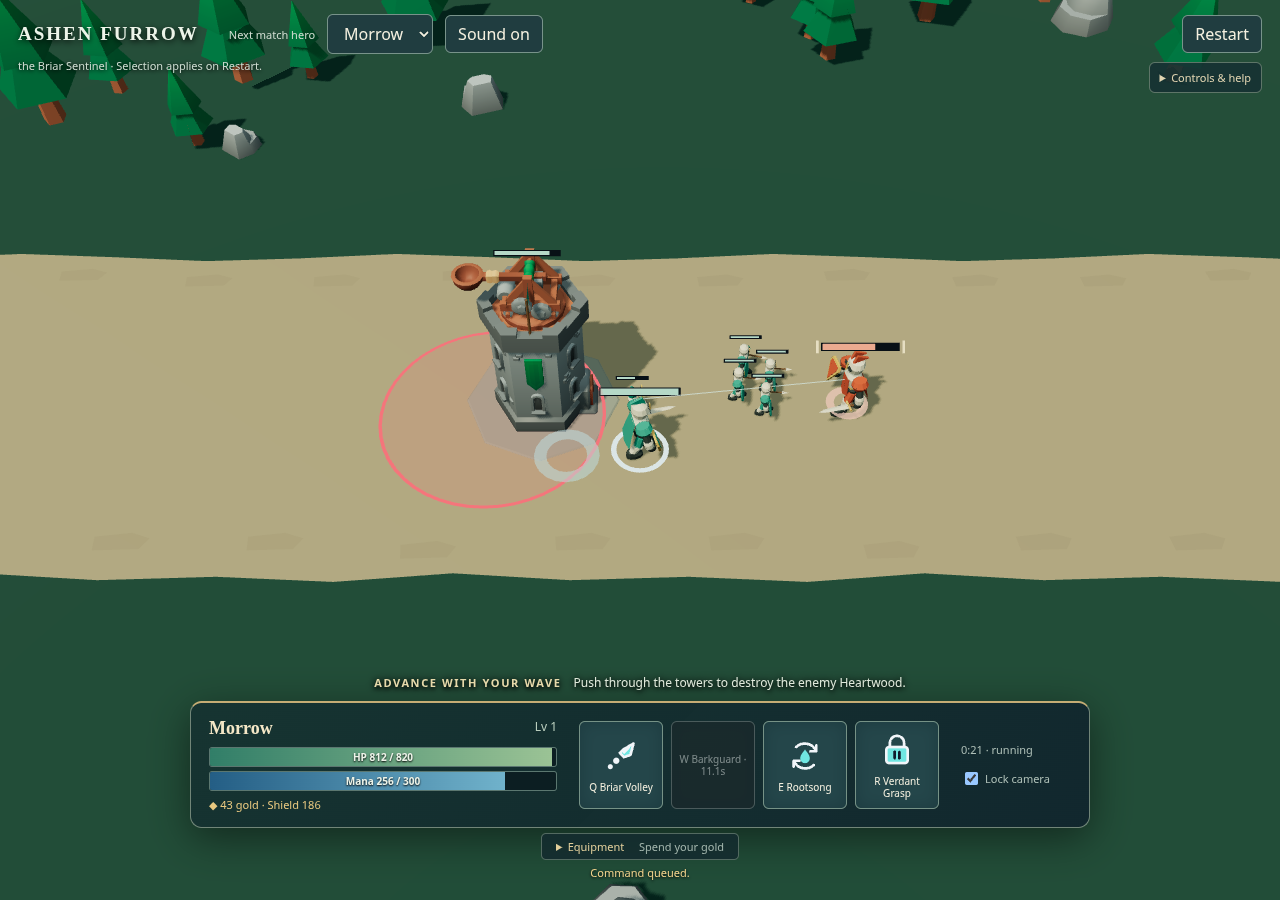
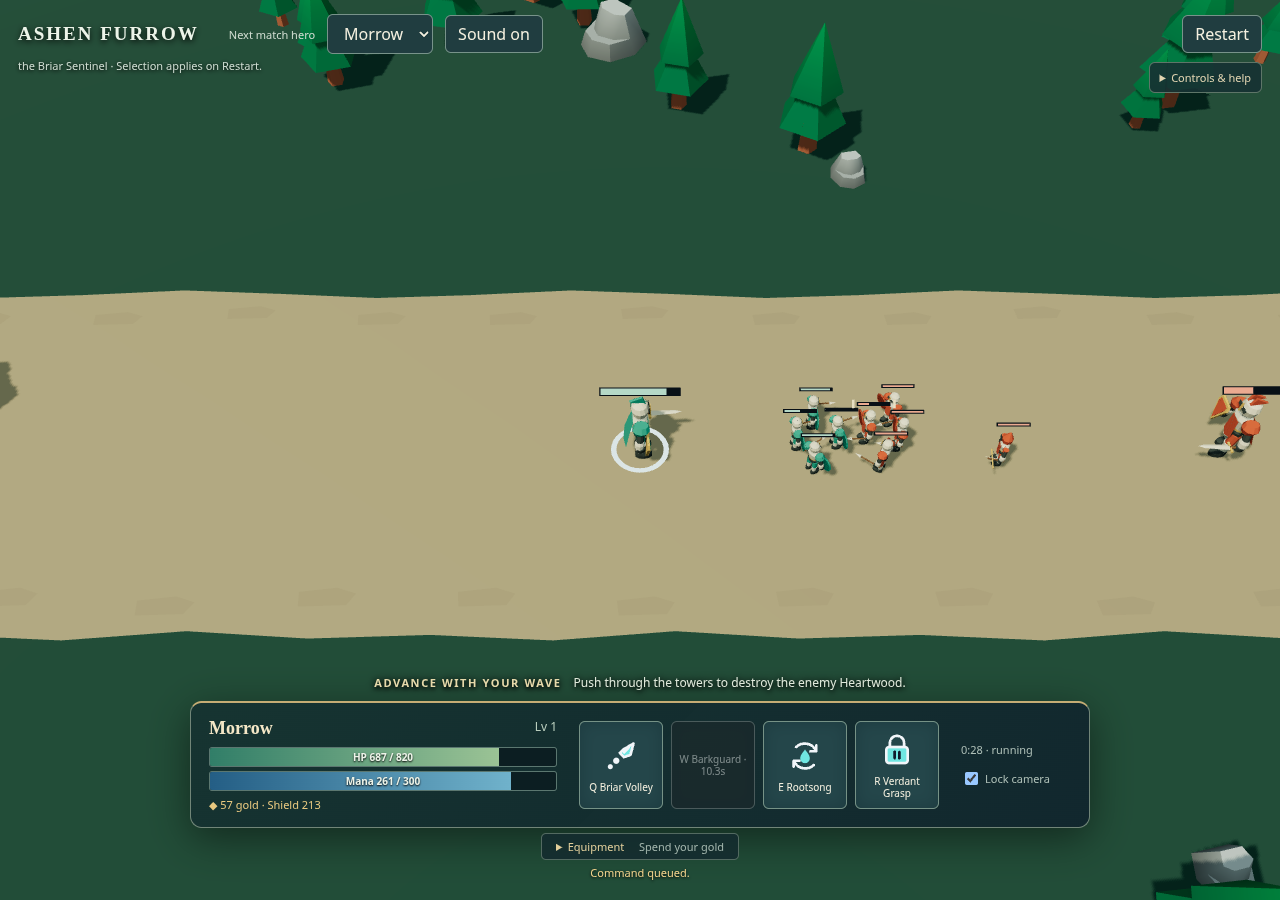
Add direct enemy attack controls; crowded target and hit feedback remain weak

diff --git a/index.html b/index.html
@@ -1,4 +1,4 @@
 <!doctype html><html lang="en"><head><meta charset="UTF-8"><meta name="viewport" content="width=device-width,initial-scale=1"><title>Ashen Furrow · MOBA-Like</title><link rel="icon" href="data:,">
 <style>
 :root{color-scheme:dark;font-family:Inter,system-ui,sans-serif;color:#edf4e9;background:#152c2e}*{box-sizing:border-box}body{margin:0;overflow:hidden}button,select{font:inherit}button,select,summary{cursor:pointer}button:focus-visible,select:focus-visible,summary:focus-visible{outline:2px solid #f0d191;outline-offset:3px}button,select{background:#203d40;color:#f4f0df;border:1px solid #78938a;border-radius:6px;padding:7px 12px}button:hover:not(:disabled){background:#36554b;border-color:#e6ca8b}button:disabled{cursor:default;opacity:.48}header{position:absolute;z-index:10;top:14px;left:18px;right:18px;display:flex;align-items:center;gap:12px;pointer-events:none}header>*{pointer-events:auto}h1{font:700 19px Georgia,serif;letter-spacing:2px;margin:0 18px 0 0;text-shadow:0 2px 6px #000}header label{font-size:11px;color:#cfdbcf}#restart{margin-left:auto}#hero-choice-details{position:absolute;z-index:9;top:58px;left:18px;max-width:340px;font-size:11px;line-height:1.5;color:#cedcd1;text-shadow:0 1px 4px #000;pointer-events:none}#stage{position:absolute;inset:0;width:100vw;height:100vh;min-height:320px}canvas{display:block;width:100%;height:100%;outline:none}#notice{position:absolute;z-index:20;left:50%;top:30%;transform:translateX(-50%);width:min(540px,90vw);padding:24px;background:#10272df0;border:1px solid #c28b59;border-radius:10px;color:#ffcf9d;box-shadow:0 20px 80px #0008}#notice[hidden]{display:none}#hud{position:absolute;z-index:10;bottom:18px;left:50%;transform:translateX(-50%);width:min(900px,94vw);pointer-events:none}.battle-status{display:flex;align-items:baseline;gap:12px;justify-content:center;margin-bottom:10px;text-shadow:0 2px 5px #000,0 0 8px #000;font-size:12px}.battle-status strong{font-size:11px;letter-spacing:1.6px;color:#e6d9aa}.battle-status span{color:#e0e9db}.battle-status[data-tone=danger] strong{color:#ffad78}.combat-panel{display:flex;align-items:center;justify-content:space-between;gap:22px;padding:15px 18px;background:linear-gradient(135deg,#163331f5,#10252df2);border:1px solid #728578;border-top:2px solid #c6ad74;border-radius:12px;box-shadow:0 10px 40px #0007;pointer-events:auto}.hero-panel{min-width:220px;flex:1}.hero-heading{display:flex;justify-content:space-between;margin-bottom:8px}.hero-heading strong{font:700 18px Georgia,serif;color:#f4e7c6}.hero-heading span{font-size:12px;color:#b9cdbd}.resource{height:20px;margin-top:4px;border:1px solid #5b7770;border-radius:3px;background:#0c1e22;position:relative;overflow:hidden}.resource i{position:absolute;inset:0 auto 0 0;background:linear-gradient(90deg,#317e68,#9bc395);transition:width .12s}.resource.mana i{background:linear-gradient(90deg,#245e85,#70b2cb)}.resource span{position:relative;z-index:1;display:block;text-align:center;font-size:10px;font-weight:700;line-height:18px;text-shadow:0 1px 2px #000}.gold{display:block;margin-top:6px;font-size:11px;color:#e8c87f}.skills{display:flex;gap:8px}.skills button{width:84px;height:88px;padding:6px;display:flex;flex-direction:column;align-items:center;justify-content:center;gap:6px;background:#24464a;border-color:#769286;box-shadow:inset 0 0 15px #081b2344}.skills button img{width:38px;height:38px}.skills button span{font-size:10px;line-height:1.2;text-align:center}.skills button[data-cooling=true]{background:#112a30;filter:saturate(.3)}.match{min-width:110px;display:flex;flex-direction:column;gap:12px;font-size:11px;color:#aebfb7}.match label{display:flex;align-items:center;gap:4px}.shop-panel{pointer-events:auto;width:max-content;max-width:100%;margin:5px auto 0;border-radius:5px;background:#142c2ee8;border:1px solid #536a61;font-size:11px}.shop-panel summary{padding:5px 14px;color:#e1ce9a}.shop-panel summary span{color:#a2b5ac;margin-left:12px}.shop{display:flex;gap:7px;padding:9px;flex-wrap:wrap}.shop button{font-size:11px}[data-message]{height:17px;margin-top:5px;text-align:center;color:#f2d48d;font-size:11px;text-shadow:0 1px 3px #000}footer{position:absolute;z-index:11;right:18px;top:62px;color:#bac9be;font-size:11px;max-width:280px}footer details{background:#163233e8;border:1px solid #5e7568;border-radius:6px;padding:7px 10px}footer summary{color:#e0d4b1}footer p{line-height:1.7;margin:8px 0 0}@media(max-width:750px){header{gap:6px;left:10px;right:10px}header h1{font-size:14px;margin-right:3px}header label{display:none}header button,header select{font-size:11px;padding:6px}#hero-choice-details{max-width:210px;font-size:9px}.combat-panel{gap:10px;padding:10px}.hero-panel{min-width:140px}.skills{gap:4px}.skills button{width:52px;height:76px}.skills button img{width:30px;height:30px}.match{display:none}.battle-status{display:block;text-align:center}.battle-status span{display:block;font-size:10px}footer{max-width:180px}.hero-heading strong{font-size:15px}}
-</style></head><body><header><h1>ASHEN FURROW</h1><label for="hero-select">Next match hero</label><select id="hero-select" aria-describedby="hero-choice-details" disabled></select><button id="sound-toggle" type="button" aria-pressed="true">Sound on</button><button id="restart" disabled>Restart</button></header><div id="hero-choice-details" role="status"></div><div id="notice" role="alert">Loading simulation and 3D assets…</div><main id="stage"></main><section id="hud"></section><footer><details><summary>Controls &amp; help</summary><p>Right-click: move · Q/W/E/R then left-click: aim/cast · A then left-click: attack-move · S: stop · Esc: cancel aim · Space: lock camera. Unlock camera to scroll at edges. Choose your next-match hero above, then Restart to begin a fresh match.</p></details></footer><script type="module" src="/src/client.ts"></script></body></html>
+</style></head><body><header><h1>ASHEN FURROW</h1><label for="hero-select">Next match hero</label><select id="hero-select" aria-describedby="hero-choice-details" disabled></select><button id="sound-toggle" type="button" aria-pressed="true">Sound on</button><button id="restart" disabled>Restart</button></header><div id="hero-choice-details" role="status"></div><div id="notice" role="alert">Loading simulation and 3D assets…</div><main id="stage"></main><section id="hud"></section><footer><details><summary>Controls &amp; help</summary><p>Right-click enemy: chase/attack · Right-click ground: move · Q/W/E/R then left-click: aim/cast · A then left-click: attack-move · S: stop · Esc: cancel aim · Space: lock camera. Unlock camera to scroll at edges. Choose your next-match hero above, then Restart to begin a fresh match.</p></details></footer><script type="module" src="/src/client.ts"></script></body></html>

diff --git a/tests/client/direct-attack.test.ts b/tests/client/direct-attack.test.ts
@@ -1,0 +1,30 @@
+import {describe,it,expect,vi} from 'vitest';
+import {Simulation} from '../../src/sim/simulation.js';
+import {commandForRightClick} from '../../src/input/commands.js';
+import {createControls} from '../../src/input/controls.js';
+import type {GameWorld} from '../../src/render/world.js';
+const navigation={closestPoint:(p:{x:number;z:number})=>({...p}),findPath:(a:{x:number;z:number},b:{x:number;z:number})=>({success:true,points:[a,b],reason:null})};
+function fixture(){const sim=new Simulation({seed:1,contentVersion:10,navigation,heroesPerTeam:1});const snapshot=sim.snapshot(),hero=snapshot.heroes[0]!,enemy=snapshot.heroes[1]!;return{sim,snapshot,hero,enemy};}
+describe('contextual enemy right click',()=>{
+ it('names the picked enemy rather than auto-selecting a nearer one, and ground/ally remains copied Move',()=>{
+  const {snapshot,hero,enemy}=fixture(),point={x:0,z:0};expect(commandForRightClick(hero,{point,entityId:enemy.id},snapshot)).toEqual({type:'attack',heroId:hero.id,targetId:enemy.id});
+  for(const entityId of [null,hero.id]){const result=commandForRightClick(hero,{point,entityId},snapshot);expect(result).toEqual({type:'move',heroId:hero.id,point});if(result?.type==='move')expect(result.point).not.toBe(point);}
+ });
+ it('stale, dead and protected enemies do not silently turn into movement; dead player/terminal also reject',()=>{
+  const {snapshot,hero,enemy}=fixture(),aim={point:{x:0,z:0},entityId:enemy.id};
+  for(const update of [{alive:false},{invulnerable:true}])expect(commandForRightClick(hero,aim,{...snapshot,entities:snapshot.entities.map(e=>e.id===enemy.id?{...e,...update}:e)})).toBeNull();
+  expect(commandForRightClick(hero,{...aim,entityId:999999},snapshot)).toBeNull();expect(commandForRightClick({...hero,alive:false},aim,snapshot)).toBeNull();expect(commandForRightClick(hero,aim,{...snapshot,status:'timeout'})).toBeNull();
+ });
+ it('the existing real command chases then commits; ground cancels target without changing the rules',()=>{
+  const {sim,hero,enemy}=fixture();const snap=sim.snapshot();const command=commandForRightClick(hero,{point:null,entityId:enemy.id},snap)!;
+  expect(sim.step([command])[0]?.accepted).toBe(true);expect(sim.snapshot().heroes[0]!.targetId).toBe(enemy.id);let hit=false;
+  for(let i=0;i<1800&&!sim.isComplete();i++){sim.step([]);if(sim.snapshot().events.some(e=>e.type==='basicAttack'&&e.sourceId===hero.id&&e.targetId===enemy.id)){hit=true;break;}}
+  expect(hit).toBe(true);const next=sim.snapshot(),own=next.heroes[0]!;const move=commandForRightClick(own,{point:{x:own.position.x-3,z:own.position.z},entityId:null},next)!;expect(sim.step([move])[0]?.accepted).toBe(true);expect(sim.snapshot().heroes[0]!.targetId).toBeNull();
+ });
+ it('canvas right click cancels skill aim and queues attack; UI sibling events never reach the canvas handler',()=>{
+  const {sim,snapshot,hero,enemy}=fixture(),win=new EventTarget(),canvas=Object.assign(new EventTarget(),{focus:vi.fn()}),menu=new EventTarget(),enqueue=vi.fn(),setTargeting=vi.fn();vi.stubGlobal('window',win);
+  const world={canvas,setTargeting,aim:()=>({point:{x:0,z:0},entityId:enemy.id}),setPointer:vi.fn(),leavePointer:vi.fn()} as unknown as GameWorld;
+  const controls=createControls(world,sim.catalog,()=>({snapshot,hero}),enqueue,()=>{},()=>{});
+  try{controls.skill('E');const event=()=>Object.assign(new Event('pointerdown'),{button:2,clientX:1,clientY:1});menu.dispatchEvent(event());expect(enqueue).not.toHaveBeenCalled();canvas.dispatchEvent(event());expect(setTargeting).toHaveBeenLastCalledWith(null);expect(enqueue).toHaveBeenLastCalledWith({type:'attack',heroId:hero.id,targetId:enemy.id});const observed=controls.inspectPointer()!;expect(observed.aim.entityId).toBe(enemy.id);observed.aim.entityId=999;expect(controls.inspectPointer()!.aim.entityId).toBe(enemy.id);controls.dispose();expect(controls.inspectPointer()).toBeNull();canvas.dispatchEvent(event());expect(enqueue).toHaveBeenCalledTimes(1);}finally{controls.dispose();vi.unstubAllGlobals();}
+ });
+});

diff --git a/src/input/controls.ts b/src/input/controls.ts
@@ -1,11 +1,11 @@
 import type {AbilitySlot,ContentCatalog} from '../content/types.js';
 import type {HeroSnapshot,SimCommand,Snapshot} from '../sim/types.js';
 import type {GameWorld} from '../render/world.js';
-import {commandForCast,isInputElement,moveCommand,validPoint} from './commands.js';
+import {commandForCast,commandForRightClick,isInputElement,validPoint,type Aim} from './commands.js';
 
 type Mode={kind:'cast';slot:AbilitySlot}|{kind:'attackMove'}|null;
 export function createControls(world:GameWorld,catalog:ContentCatalog,current:()=>{snapshot:Snapshot;hero:HeroSnapshot},enqueue:(command:SimCommand)=>void,say:(text:string)=>void,focusCamera:()=>void){
-  const abort=new AbortController();const options={signal:abort.signal};let mode:Mode=null;
+  const abort=new AbortController();const options={signal:abort.signal};let mode:Mode=null;let lastPointer:{button:number;aim:Aim;command:SimCommand|null}|null=null;
   function setMode(next:Mode){mode=next;world.setTargeting(next?.kind==='cast'?next.slot:null);}
   function skill(slot:AbilitySlot){
     const {snapshot,hero}=current();const definition=catalog.heroes[hero.definitionId];const ability=definition&&catalog.abilities[definition.abilities[slot]];
@@ -20,10 +20,12 @@ export function createControls(world:GameWorld,catalog:ContentCatalog,current:()
     if(event.button!==0&&event.button!==2)return;event.preventDefault();world.canvas.focus();world.setPointer(event.clientX,event.clientY);
     const {snapshot,hero}=current();if(!hero.alive||snapshot.status!=='running')return;
     const aim=world.aim();let command:SimCommand|null=null;
-    if(event.button===2){setMode(null);command=moveCommand(hero.id,aim.point);}
+    if(event.button===2){setMode(null);command=commandForRightClick(hero,aim,snapshot);}
     else if(mode?.kind==='cast')command=commandForCast(hero,mode.slot,aim,snapshot,catalog);
     else if(mode?.kind==='attackMove'&&validPoint(aim.point))command={type:'attackMove',heroId:hero.id,point:{...aim.point}};
+    lastPointer=structuredClone({button:event.button,aim,command});
     if(command){enqueue(command);setMode(null);say('Command queued.');}
+    else if(event.button===2)say('No valid attack or movement target here.');
     else if(mode)say('No valid target here. Aim again or press Esc.');
   },options);
   window.addEventListener('keydown',event=>{
@@ -35,5 +37,5 @@ export function createControls(world:GameWorld,catalog:ContentCatalog,current:()
     else if(key==='ESCAPE'){setMode(null);say('Aim cancelled.');}
     else if(event.code==='Space'){event.preventDefault();focusCamera();}
   },options);
-  return {skill,dispose(){abort.abort();setMode(null);}};
+  return {skill,inspectPointer:()=>lastPointer?structuredClone(lastPointer):null,dispose(){abort.abort();setMode(null);lastPointer=null;}};
 }

diff --git a/src/input/commands.ts b/src/input/commands.ts
@@ -21,6 +21,17 @@ export function commandForCast(hero:HeroSnapshot, slot:AbilitySlot, aim:Aim, sna
     }
   }
 }
+// Contextual right click: choose the picked enemy, never a nearest-target substitute.
+// A stale/protected enemy click is a no-op, not a move into that enemy.
+export function commandForRightClick(hero:HeroSnapshot,aim:Aim,snapshot:Snapshot):SimCommand|null {
+  if(!hero.alive||snapshot.status!=='running')return null;
+  if(aim.entityId!==null){
+    const target=snapshot.entities.find(entity=>entity.id===aim.entityId);
+    if(!target||!target.alive)return null;
+    if(target.team!==hero.team)return target.invulnerable?null:{type:'attack',heroId:hero.id,targetId:target.id};
+  }
+  return moveCommand(hero.id,aim.point);
+}
 export function validPoint(point:Vec2|null):point is Vec2 {return point!==null && Number.isFinite(point.x)&&Number.isFinite(point.z);}
 export function moveCommand(heroId:number,point:Vec2|null):SimCommand|null {return validPoint(point)?{type:'move',heroId,point:{...point}}:null;}
 export function isInputElement(target:EventTarget|null):boolean {

diff --git a/src/client.ts b/src/client.ts
@@ -70,7 +70,7 @@ async function boot(){
     animation=requestAnimationFrame(frame);
 
     // Explicit read-only, structured diagnostic snapshot for a future real browser smoke.
-    Object.defineProperty(window,'mobaClient',{configurable:true,value:{snapshot:()=>sim.snapshot(),state:()=>({ready:!stopped,backend:'three-webgl2',camera:world.cameraState(),effects:world.effectState(),targeting:world.targetingState(),motions:world.motionState(),tick:sim.snapshot().tick,status:sim.status})}});
+    Object.defineProperty(window,'mobaClient',{configurable:true,value:{snapshot:()=>sim.snapshot(),state:()=>({ready:!stopped,backend:'three-webgl2',camera:world.cameraState(),pointer:controls.inspectPointer(),effects:world.effectState(),targeting:world.targetingState(),motions:world.motionState(),tick:sim.snapshot().tick,status:sim.status})}});
   }catch(error){cleanup();stage.replaceChildren();hudRoot.replaceChildren();notice.textContent=error instanceof Error?error.message:String(error);notice.hidden=false;restart.disabled=false;}
   finally{booting=false;heroSelection.setBusy(false);}
 }

diff --git a/docs/quality.md b/docs/quality.md
@@ -1,27 +1,27 @@
-# 一次基本战斗：标明当前攻击目标
+# 一次基本战斗：直接指定普攻目标
 
 ## 参照与本轮画面
 
-主参照为[英雄联盟官方基础玩法展示](https://www.leagueoflegends.com/en-us/how-to-play/)的 **Earn Gold／Abilities** 片段：在移动、出手和范围技能并存时，玩家应能辨认自己的目标与危险来源。地景轮廓另参照 [Thronefall 官方画面](https://store.steampowered.com/app/2239150/Thronefall/)。参照并排图只保留本地。
+主参照为英雄联盟的点选战斗：玩家选择敌人，角色按自己的射程追击与攻击，改点地面后移动。[Riot 的 Zeri 设计说明](https://www.leagueoflegends.com/en-gb/news/game-updates/champion-insights-zeri/)把普通右键普攻与需要瞄准的技能射击区分开；本例复用既有命令与技能体系，不复制英雄机制。参照并排图只保留本地。
 
-![正常攻击移动中，当前敌方目标的血条两侧出现浅色括号](quality/current-target.png)
+![右键指定敌方小兵后，沿既有普攻规则出手](quality/current-target.png)
 
-![按 S 停止后，目标括号消失，原血条保留](quality/target-cleared.png)
+![右键空地后清除原目标并移动，战斗继续](quality/target-cleared.png)
 
-2026-10-26，固定源 `1c176a9` 的正常 Morrow 跟随兵线、A＋左键、S、再次 A 操作。原尺寸截图分别取于逻辑 tick 645 与 727；采用源 `7890eb2` 保留相同的目标括号。两张图是同一连续操作的不同状态，不是同帧 A/B。
+2026-10-26，固定源 `57f8eaf`，Morrow 正常跟随兵线并使用 W，右键当前可见敌兵，再点空地、停止并打开帮助。两帧来自同一段连续操作的 tick 858／899，不是同帧 A/B。测试归档只添加逐逻辑步的有界只读事件观察；它记录了 tick 848 的真实 `basicAttack`，没有改变模拟或画面。
 
-## 已采用的改变
+## 本轮改变
 
-- 在当前攻击／追击目标的原血条两侧标出浅色括号，不挪动血条，也不再增加连接线。
-- 直接读取当前玩家的目标 ID；停止、改为移动、目标死亡或结束对局时撤去。对象隐藏时不单独留下提示。
-- 括号只回答“我的当前目标是谁”，不代表已经进入射程、攻击命中或目标被硬锁定。既有淡色出手短束与真实命中反馈保留各自语义。
+- 右键可攻击敌方提交已有 Attack，明确指定那个对象；不再只能先走到点击处、依赖 A 的自动获取。
+- 右键地面或友方继续移动，并取消当前技能瞄准；点无效或不可攻击敌人不会偷偷变成走向其脚下。
+- 既有目标括号回答“当前攻击／追击谁”，不代表必中。对方离开射程仍须追击，点地面与 S 可以停止；菜单不把点击透传给世界。
 
-非作者按原尺寸复看目标取得、持续追击、停止与重新取得后，接受当前敌方英雄比无标记时更容易识别这一有限改善。此次画面有己方兵群，但没有证明贴身多个敌方挤在一起时仍能立即选出目标。
+正常片段已实际覆盖指定敌兵、真实出手、点地移动与菜单隔离；另一次点敌英雄后持续追击，但对方退跑，没有据此宣称必能追上。原模拟版本与即时结算保持，默认仍为 10。
 
 ## 最大差距与下一步
 
-1. **敌方发起与真实命中仍弱**：当前目标变清楚，不等于敌人正在攻击谁变清楚。下一步沿真实出手／命中与动作关联改善，不用目标标记冒充命中确认。
-2. **密集小兵目标与死亡仍难辨认**：细括号在远距小兵上的实际阅读尚未覆盖；既有倒下动作也常被活单位遮住。应在正常接战中处理轮廓与遮挡，不回到阶梯血条或大光柱。
-3. **场景与声画层次不足**：宽直平涂道路缺少参照的空间层次；声音仍缺实际主观听验。
+1. **密集目标仍需要精确点选**：小兵轮廓与细血条在群中容易重叠；有明确命令入口，不等于所有拥挤局面都能轻松指中。
+2. **出手与受击主次仍弱**：角色准备、释放和命中关联尚不如参照清楚；不能靠当前目标括号代替敌方出手提示或命中确认。
+3. **场景与声音仍待提高**：宽直平涂道路缺少层次；既有声音尚缺实际主观听验。
 
-当前基本战斗未达到英雄联盟参照品质。本页随下一轮真实片段替换，不累积逐次过程记录。
+当前基本战斗未达到英雄联盟参照品质。本页随下一轮真实片段替换。

diff --git a/docs/brief.md b/docs/brief.md
@@ -104,3 +104,9 @@
 v10 以 v8 为基础，仅增加活兵之间的有界接触分离，不同时采用 v9 的单位两阶段伤害规则。双方沿相同规则：单位阶段的移动／普攻承诺完成后，读取同一组位置，按固定 ID 累加成对推离，再统一提交；死亡不参与，眩晕兵作为不能被推移的障碍，英雄不被兵群推移。完全重合无几何法线时，用稳定 ID 决定相反横向，不能由此宣称所有旋转对称。每步最多修正 2 米／秒 × 固定步长；只接受现有 NavMesh 上可由该短距离直达的局部落点，短折线路径也拒绝直接跨弦，失败仍保重叠，不接受超预算的远点跳转。当前只验证了已发布的凸矩形通路；现有路径包装会滤去 5 厘米内的近点，因此这些检查不是任意复杂凹角／薄障碍的连续碰撞保证，关卡增加此类障碍前须补保真直达查询。
 
 已承诺的普攻不会因为随后分离而撤回；分离求解本身不依赖输入数组顺序，但 v10 仍保 v8 的顺序单位更新，不能宣称整 tick 反序不变。塔阶段及下一 tick 射程读取新实际位置。这会改变阵型、接敌与伤亡，不是纯渲染优化，不借旧回放哈希宣称新玩法不变。旧 1／2／7／8／9 的规则保留，CLI／网页新对局采用 10；旧回放按记录版本读取，显式 8 仍可运行。它是软接触修正，不是完整 Crowd／刚体系统，也不保证任意密度或窄口零重叠。品质判断仍需正常基本战斗及非作者实图，不以数值重叠降低代填。
+
+### 玩家指定普攻目标
+
+右键真实画面中可拾取的存活敌方单位，会提交已有 `attack` 命令，追入现有射程后按版本规则普攻；不是点击即命中或自动改选最近敌人。右键地面或友方仍移动，右键会取消当前技能瞄准。点到已失效或不可攻击敌方不会偷偷转成向其脚下移动；UI 面板不透传到世界。当前玩法没有战争迷雾，本入口不增加画面之外的目标信息，尸体仍不参与拾取。模拟阶段、伤害与回放版本不变，网页／CLI 继续 10。
+
+操作参照：Riot Games [Champion Insights: Zeri](https://www.leagueoflegends.com/en-gb/news/game-updates/champion-insights-zeri/) 的普攻右键与技能射击区分；本例复用自己的目标命令与可见拾取，不照搬英雄机制。

diff --git a/README.md b/README.md
@@ -26,7 +26,8 @@ npm run preview:web
 
 - **Next match hero → Restart**：选择 Veyra 或 Morrow 后开启新局；更改选择不会修改当前对局，直接 Restart 保留上次选择。Morrow 的 W 为立即施放的自身护盾，Q 为方向弹道，E/R 为地面技能；技能名与操作提示随英雄切换。对手仍为 Veyra。
 
-- **右键地面**：移动。
+- **右键敌人**：指定目标，追入射程后普攻；不是攻击命中保证。
+- **右键地面／友方单位**：移动；点无敌敌方建筑不会自动走进其脚下。
 - **Q / W / E / R** 或技能按钮：选择技能，再左键地面或敌人施放；自身技能立即施放。
 - **A，再左键地面**：攻击移动，沿途自动获取敌人。
 - **S**：停止当前移动或攻击指令；**Esc**：取消瞄准。
